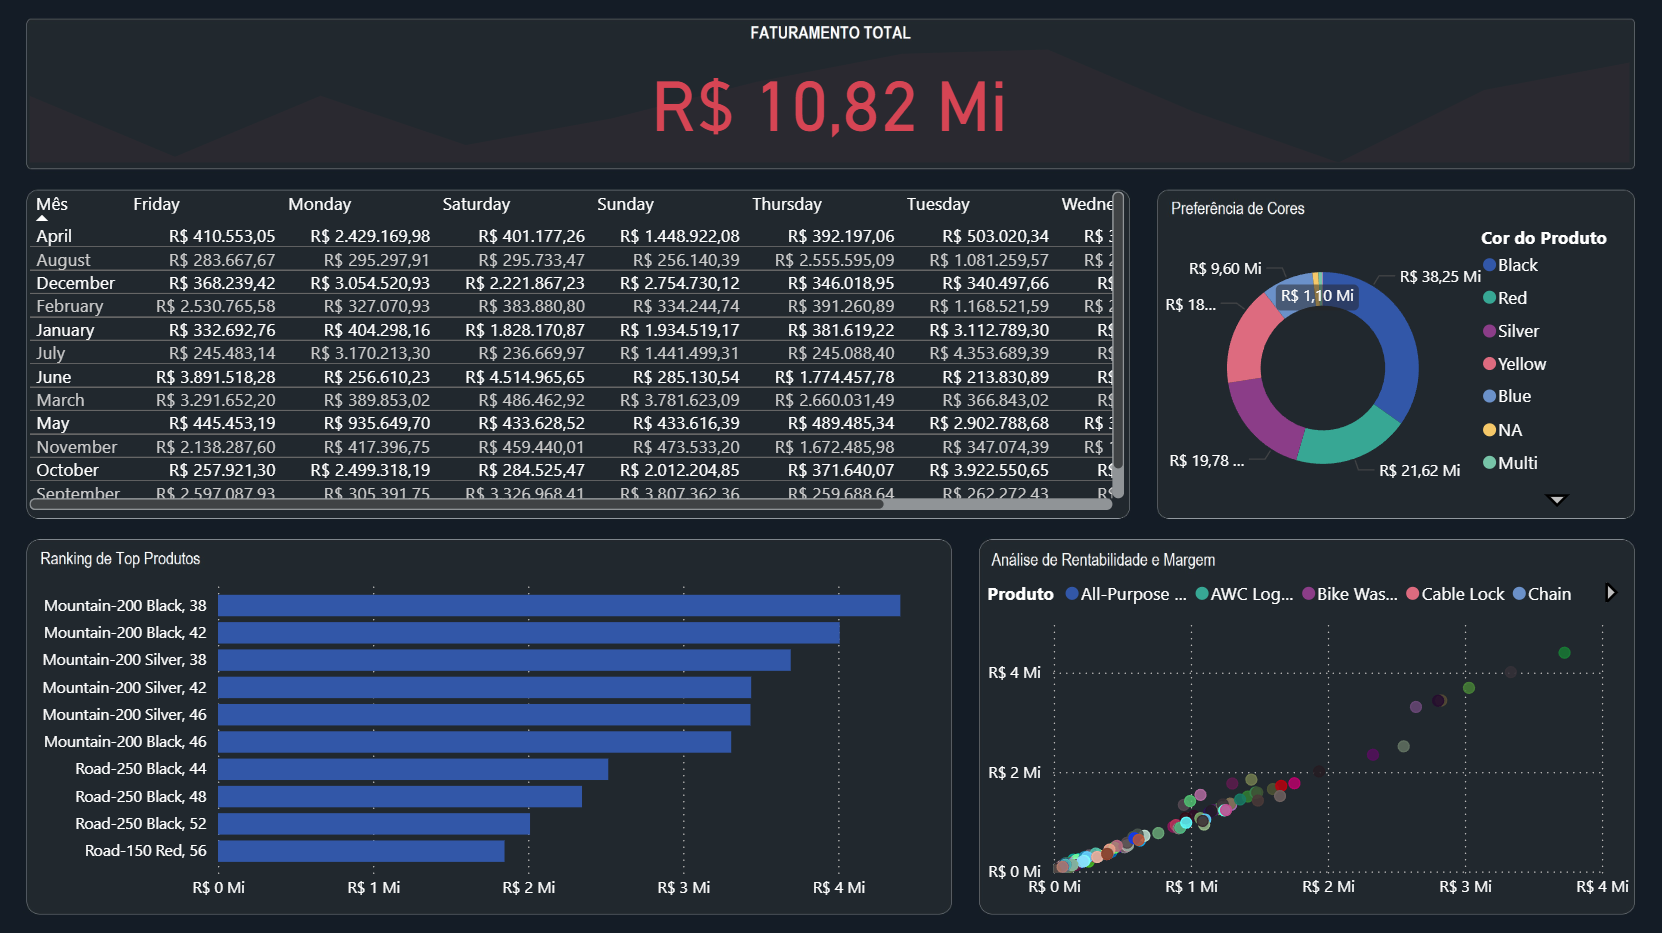
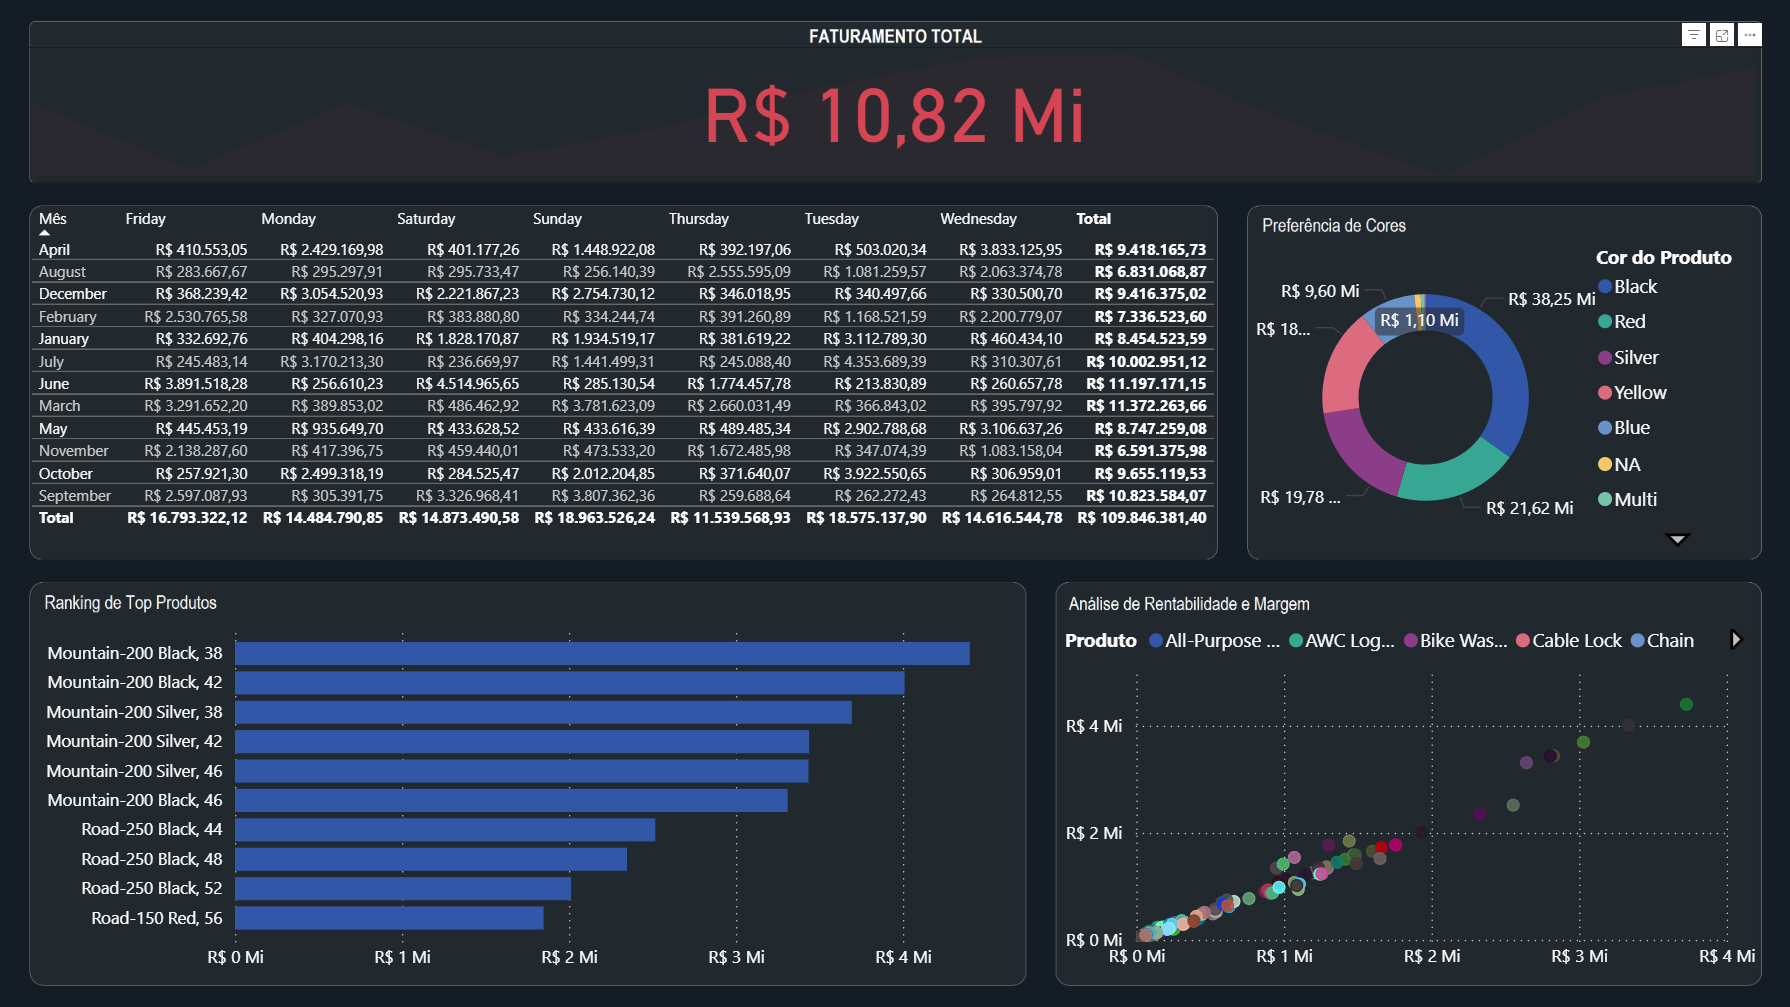
chore: ajustando dashboard power bi

diff --git a/nivel-01/README.md b/nivel-01/README.md
@@ -62,5 +62,3 @@ Com a Marts estruturada, o Power BI deixa de fazer "limpeza de dados" e foca em 
 - Rentabilidade: Análise de Custo vs. Faturamento por produto.
 - Sazonalidade: Identificação de picos de venda por dia da semana e meses.
 - Performance: KPIs de crescimento mensal (MoM%) e Rankings de Top Produtos.
-
----
